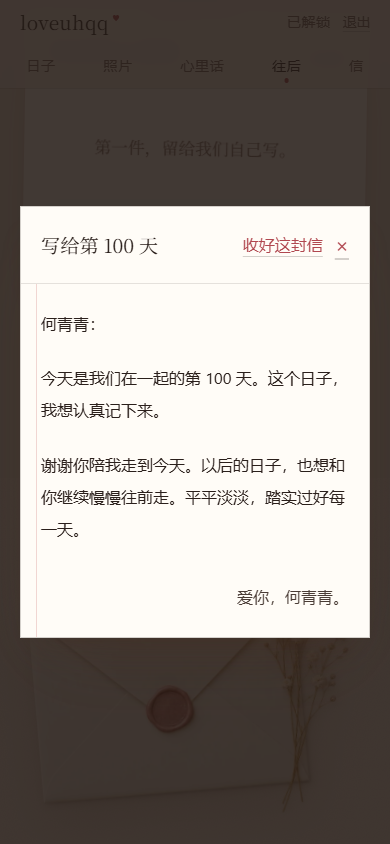
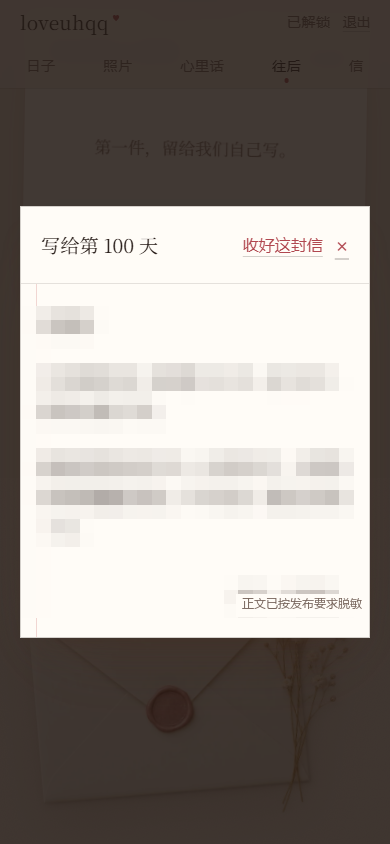
fix(letter): keep private wording out of the public font and previews
Two ways the hundred-day letter could still leave the server-gated path:

- scripts/subset-font.mjs only scans src/, but the public subset is a
  downloadable character-set oracle. Worker-only characters are now recorded
  in src/assets/fonts/worker-only-chars.txt and tests/font-subset.test.mjs
  fails if any of them ever reach the shipped charset.
- docs/previews/letter-open-mobile.png showed the fully legible letter body in
  a repo artifact embedded in the PR body, which bypasses the date gate the
  feature exists to enforce. The body band is mosaicked and labelled.

Also give the midnight rollover timer a one-second floor so a restored or
throttled page cannot re-enter immediately on a clock that has not moved.

diff --git a/src/scripts/letter.ts b/src/scripts/letter.ts
@@ -61,7 +61,10 @@ function updateDates() {
     count.append('还有 ', number, ' 天');
   }
   window.clearTimeout(midnightTimer);
-  midnightTimer = window.setTimeout(updateDates, getNextShanghaiMidnight(now).getTime() - now.getTime() + 100);
+  // A restored or throttled page can hold an already-overdue timer; never let the
+  // rollover re-enter immediately and re-read a clock that has not moved.
+  const untilMidnight = getNextShanghaiMidnight(now).getTime() - now.getTime();
+  midnightTimer = window.setTimeout(updateDates, Math.max(1000, untilMidnight + 100));
 }
 
 function waitForDate() {
